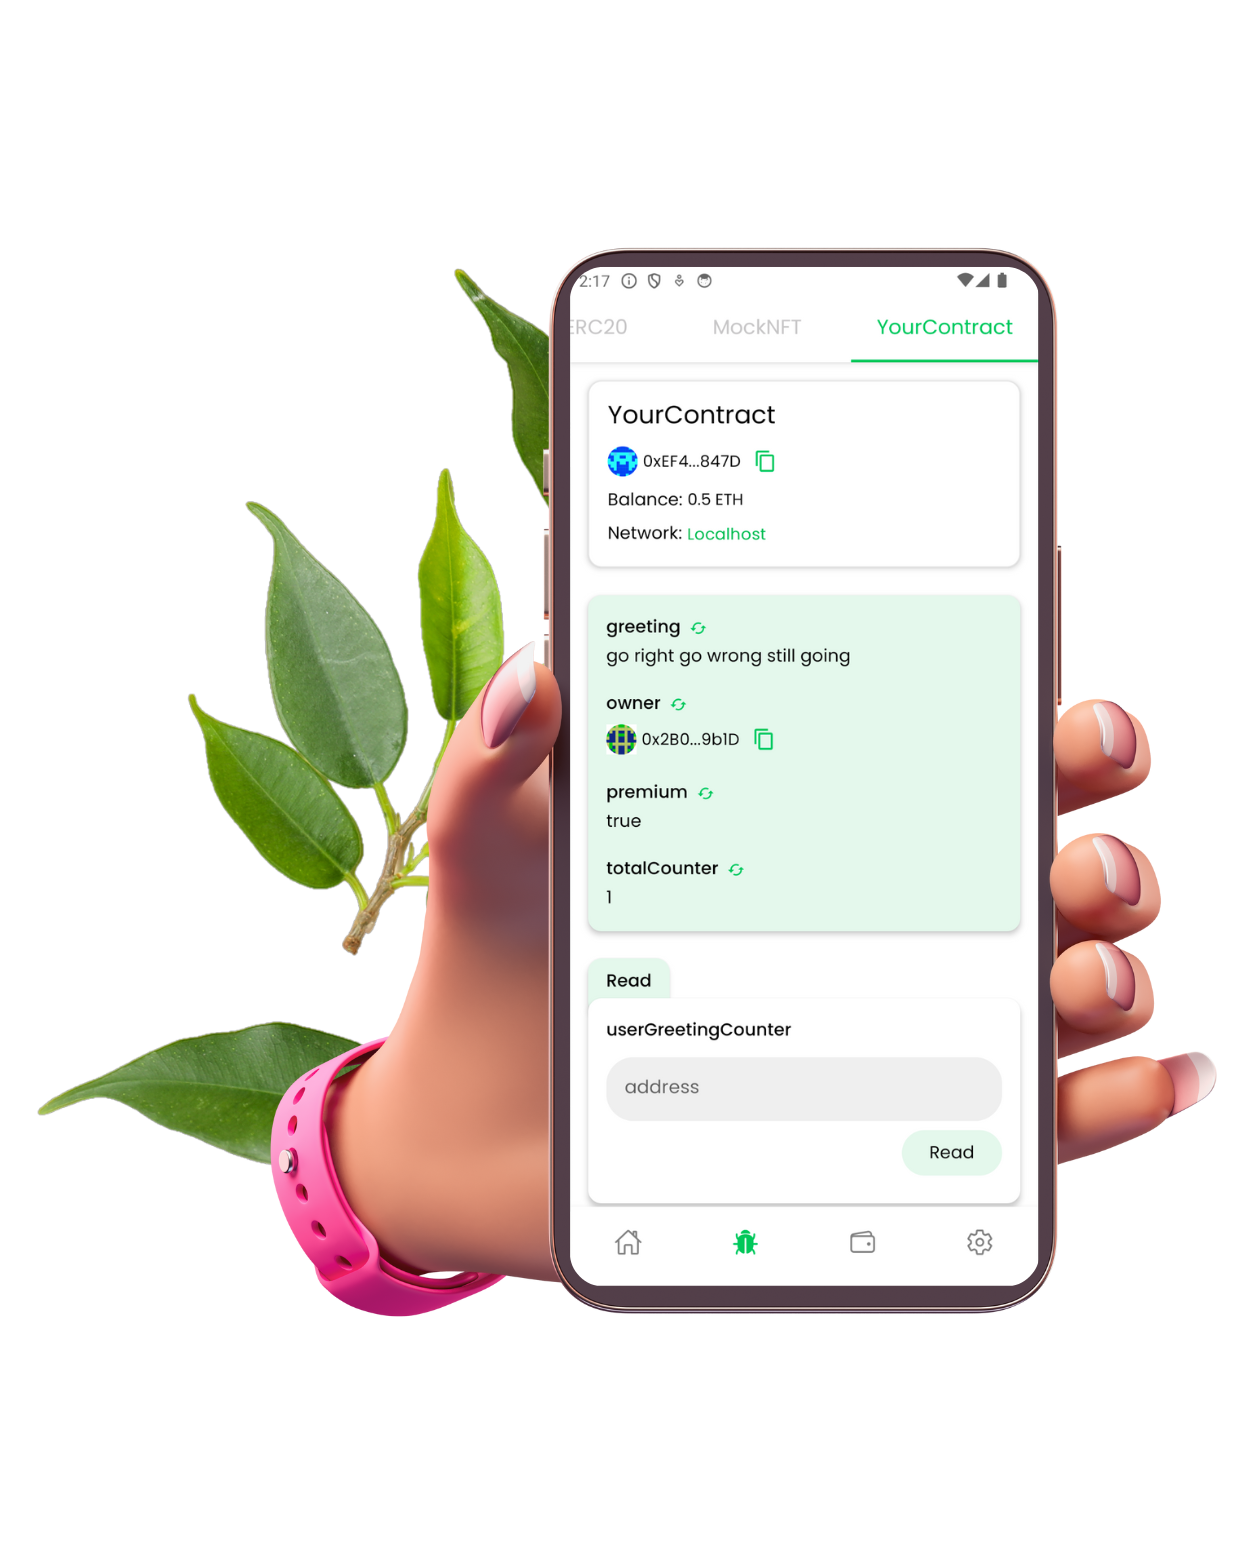
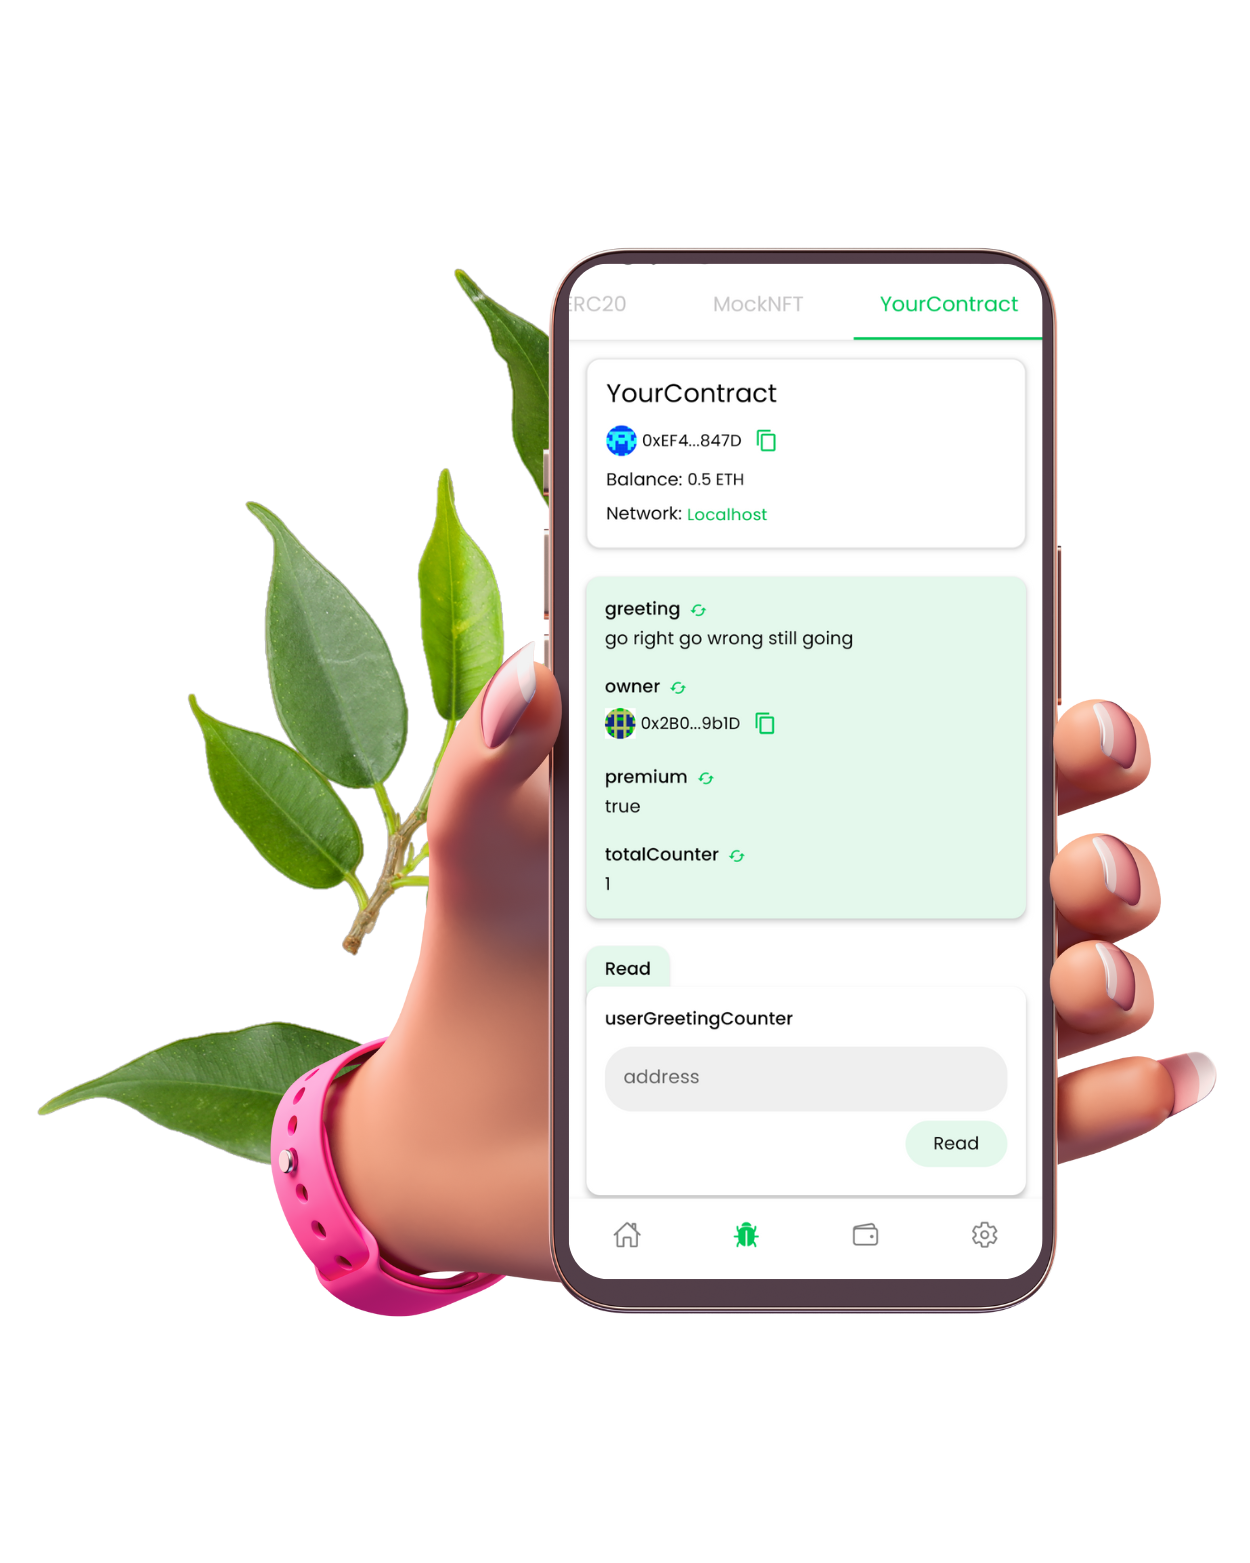
chore: remove statusbar from wallet and debugger image

Changed region(s): [[0.468, 0.1536, 0.8424, 0.8292], [0.4368, 0.1536, 0.624, 0.215]]

diff --git a/components/features/ContractDebugger.tsx b/components/features/ContractDebugger.tsx
@@ -30,7 +30,7 @@ export default function ContractDebugger() {
         <img
           alt="Contract Debugger"
           src="/images/debugger.png"
-          className="object-cover -ml-12"
+          className="object-cover -ml-12 md:-ml-20"
         />
       </div>
     </div>
